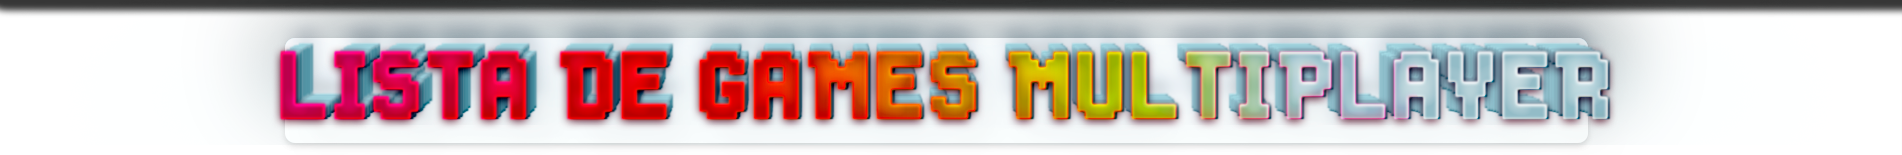
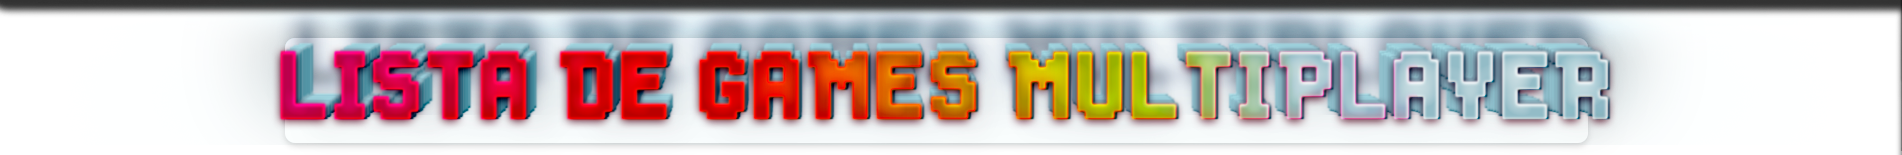
h

diff --git a/conteudo/listas/Teste novo horizontal pagina com lista multiplayer no blog.html b/conteudo/listas/Teste novo horizontal pagina com lista multiplayer no blog.html
@@ -2,6 +2,32 @@
 <link href="https://fonts.googleapis.com/css?family=VT323" rel="stylesheet"></link>
 <link href="https://maxcdn.bootstrapcdn.com/font-awesome/4.5.0/css/font-awesome.min.css" rel="stylesheet"></link>
 
+
+<!-- dicas de pesquisa style -->
+<style>
+#a{
+     font-family: &quot;vt323&quot;
+	background-color:black;
+    padding:10px;
+    border:2px solid #464AFC;    
+}
+
+.tooltip{
+     font-family: 'VT323';
+	 line-height: 1.0;
+	 font-size: 16px;
+	background:black;
+    color:white;
+    padding:5px;
+    box-shadow:0 0 10px 0 rgba(0, 0, 0, 1);
+    border-radius:5px;
+    opacity:0;
+}
+</style>
+<!-- dicas de pesquisa style -->
+
+
+
 <style>
 table {
   font-size: 30px;
@@ -146,7 +172,7 @@ tr:nth-child(even) {
 	
 
 	
-	<img border="0" data-original-height="336" data-original-width="774" src="https://2.bp.blogspot.com/-vAusqqFn04o/XIWgixrxpCI/AAAAAAAACfM/uRo8RcDAdQsyx0TeUh988334o9mZgwcRACLcBGAs/s1600/listas-de-games-coop3.jpg" />
+	<img border="0" data-original-height="336" data-original-width="774" src="https://1.bp.blogspot.com/-H_HbFnvdNhs/XXWDRYN-XQI/AAAAAAAADI4/bC4lVl1qi8kvrkQN_Rhg9zGSsphroZRgwCLcBGAs/s1600/imagem-topo-lista-multiplayer.jpg" />
 		
 	
 	
@@ -206,7 +232,7 @@ tr:nth-child(even) {
 	 
 	
 
-	 <div style="background-color: white; padding: 8px; color: black; font-family: &quot;vt323&quot; , monospace;  ">
+	 <div style="font-size: 24px; text-align: justify; background-color: white; padding: 8px; color: black; font-family: &quot;vt323&quot; , monospace;  ">
 		 
 		Olá! Esta é uma lista de games cooperativos que tem como objetivo tornar facil a busca de vários titulos, separados por modo de jogo e gênero. A intenção é fazer a busca por bons games para jogar com os amiguinhos se tornar algo prático.<br><br>
 		 
@@ -238,12 +264,28 @@ tr:nth-child(even) {
         <td style="color: black; font-family: &quot;vt323&quot; , monospace; font-size: 18px; padding: 6px;">95</td>
 
 
+	
+	
       </tr>
+		
+	
+		<tr><td colspan="7" >
+	
+			
+				<div id="wrapper">
+    <div id="a"  style="color: white; font-family: &quot;vt323&quot; , monospace; font-size: 24px; padding: 8px;">DICAS DE COMO PESQUISAR</div>
+</div>
+	</td></tr>
+		
+		
 
-
-	<th colspan="3" style="background-color: royalblue;">
+	<th colspan="7" style="background-color: royalblue;">
+		
+		
+		
 		
 	<td>	
+
 
 		
 		
@@ -266,9 +308,9 @@ tr:nth-child(even) {
 <div id="Paris" class="tabcontent">
 
 	
-	<div style="background-color: black; color: white; font-family: &quot;vt323&quot; , monospace; font-size: 32px; padding: 0px; display: block; width: 100%; overflow: scroll; height: 150px; ">
+	<div style="background-color: white; color: black; font-family: &quot;vt323&quot; , monospace; font-size: 32px; padding: 0px; display: block; width: 100%; overflow: scroll; height: 150px; ">
 
-<span style=" font-size: 20px; ">
+<span style=" font-size: 28px; ">
 Outward <br />
 Trine 2 <br />
 Trine 3 <br />
@@ -301,7 +343,7 @@ Resident Evil 6  </td>
 
 <div id="Tokyo" class="tabcontent" style="text-align: center; color: black; font-family: &quot;vt323&quot; , monospace; font-size: 24px; padding: 6px;">
 
-	<div style="background-color: white; padding: 8px; color: black; ">
+	<div style="text-align: justify; background-color: white; padding: 8px; color: black; ">
 	
 	O objetivo desta lista é sempre se manter atualizadas, mesmo que com um pouco de delay (hehe)<br><br>
 Para isso, é possivel indicar games e informar erros pelos tweets abaixo (sim, só responde-los com as informações que tens)
@@ -413,8 +455,6 @@ padding: 5px;
 
 
 
-
-
 <script async src="https://pagead2.googlesyndication.com/pagead/js/adsbygoogle.js"></script>
 
 <script>
@@ -440,4 +480,48 @@ function openCity(cityName,elmnt,color) {
 // Get the element with id="defaultOpen" and click on it
 document.getElementById("defaultOpen").click();
 </script>
+
+
+
+
+<!-- dicas de pesquisa -->
+<script>
+var div = document.getElementById('wrapper');
+var a = document.getElementById("a");
+var fadeSpeed = 25; // a value between 1 and 1000 where 1000 will take 10
+                    // seconds to fade in and out and 1 will take 0.01 sec.
+var tipMessage = "A pesquisa é feita para ser a mais intuitiva possivel, pode-se pesquisar pelo nome, estilo de gameplay e gênero ao mesmo tempo e em qualquer ordem.<br><br>Exemplos<br>⭐ = Melhores games (por mim) <br>4 + = Games que possuam mais de 4 players<br>2 3 = Games que possuam de 2 a 3 Players<br>Lan 4 = Games com multiplayer via wifi com 4 players";
+
+var showTip = function(){    
+    var tip = document.createElement("span");
+    tip.className = "tooltip";
+    tip.id = "tip";
+    tip.innerHTML = tipMessage;
+    div.appendChild(tip);
+    tip.style.opacity="0"; // to start with...
+    var intId = setInterval(function(){
+        newOpacity = parseFloat(tip.style.opacity)+0.1;
+        tip.style.opacity = newOpacity.toString();
+        if(tip.style.opacity == "1"){
+            clearInterval(intId);
+        }
+    }, fadeSpeed);
+};
+var hideTip = function(){
+    var tip = document.getElementById("tip");
+    var intId = setInterval(function(){
+        newOpacity = parseFloat(tip.style.opacity)-0.1;
+        tip.style.opacity = newOpacity.toString();
+        if(tip.style.opacity == "0"){
+            clearInterval(intId);
+            tip.remove();
+        }
+    }, fadeSpeed);
+    tip.remove();
+};
+
+a.addEventListener("mouseover", showTip, false);
+a.addEventListener("mouseout", hideTip, false);
+</script>
+<!-- dicas de pesquisa -->
    

diff --git a/conteudo/listas/tabela-de-games-coop-full.html b/conteudo/listas/tabela-de-games-coop-full.html
@@ -3,12 +3,54 @@
 	
 	
 <head>
+	
+	
+
+
+<style>
+table {
+  font-size: 20px;
+  border-collapse: collapse;
+  width: 100%;
+
+}
+
+td, th {
+  border: 0px solid #fcfcfc;
+
+  padding: 0px;
+}
+
+tr:nth-child(even) {
+  background-color: #D2F4FF;
+}
+
+</style>
+
+
+
+
+	
+	
+	
+	
+	
+	
+	
+	
+	
+	
+	
+	
+	
+	
+	
 	<img src="IMAGEM-acima-lista.jpg" width="100%"  alt=""/>
   <nav>
     <ul><img src="IMAGEM-acima-lista-grande.png" width="100%"  alt=""/>
-          <li><a  target="_blank" href="https://twitter.com/sete_fases/status/1170614154224447488"><b></b>Indique um game não listado</b></a>
+          <li><a  target="_blank" href="https://twitter.com/sete_fases/status/1170614154224447488"><b></b>Indique um game</b></a>
       </li>
-		<li><a  target="_blank" href="https://twitter.com/sete_fases/status/1170610808826552320"><b></b>Encontrou erros? informe aqui</b></a>
+		<li><a  target="_blank" href="https://twitter.com/sete_fases/status/1170610808826552320"><b></b>Encontrou erros?</b></a>
 		  
 		  
 		  
@@ -16,8 +58,26 @@
       </li>
     </ul>
   </nav>
+<img src="conheca-o-canal.png" width="100%"  alt=""/>
 
-<br><br>
+	
+<table id="table">
+<tr>
+	
+	
+	  <td style="text-align: right; background-color: #DCDCDC; color: black; font-family: &quot;vt323&quot; , monospace; font-size: 18px; padding: 6px;"><strong>⭐=</strong></td>
+        <td style="text-align: left; background-color: #DCDCDC; color: black; font-family: &quot;vt323&quot; , monospace; font-size: 18px; padding: 6px;">Games bem avaliados pelo canal</td>
+
+	
+	
+	
+	</tr>
+
+	</table>
+
+
+
+
 <script type="text/javascript" src="jquery-3.3.1.js"></script>
 	<script type="text/javascript" src="jquery.dataTables.min.js"></script>
 	
@@ -98,8 +158,21 @@ color: #000;
 </head>
 <body>
 	
+	
+	
+	
+	
 <!-- MAIN (Center website) -->
-<br><br><br><br><br>
+<br><br><br>
+	
+	
+	
+
+	
+	
+	
+	
+	
 	
 	<table id="example" class="display" style="width:100%" >
         <thead>
@@ -825,7 +898,7 @@ color: #000;
 	
 	
         </tbody>
-        <tfoot>
+  <tfoot>
             <tr>
                 <th>Game</th>
                 <th>Jogadores</th>
@@ -835,6 +908,7 @@ color: #000;
 
             </tr>
         </tfoot>
+
     </table>
 	
 
